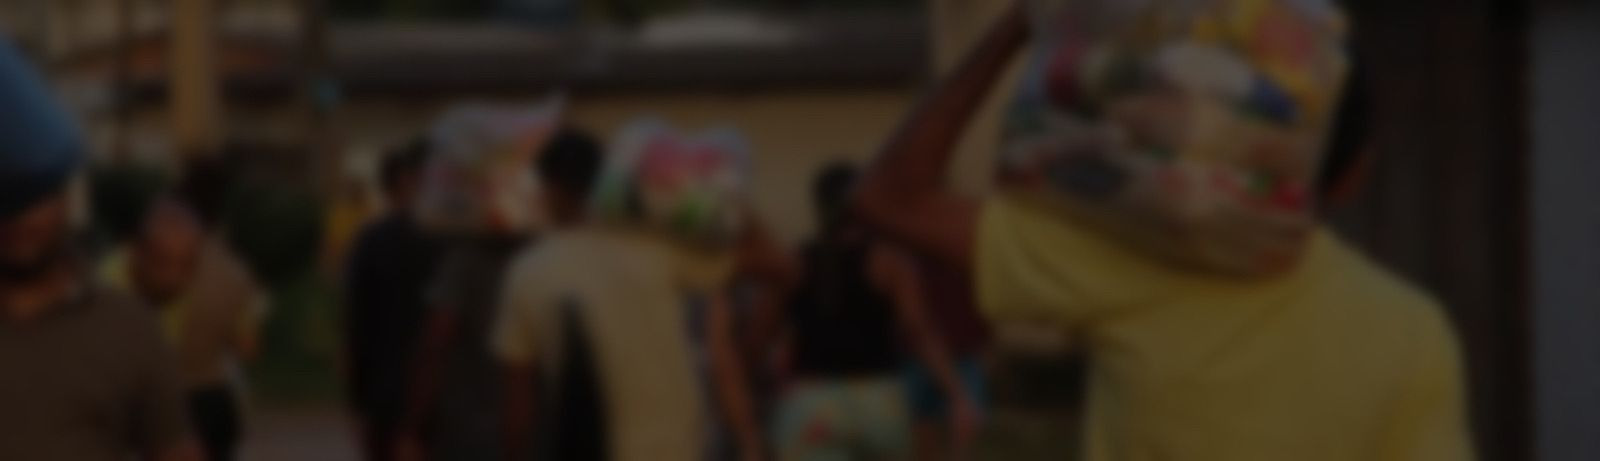
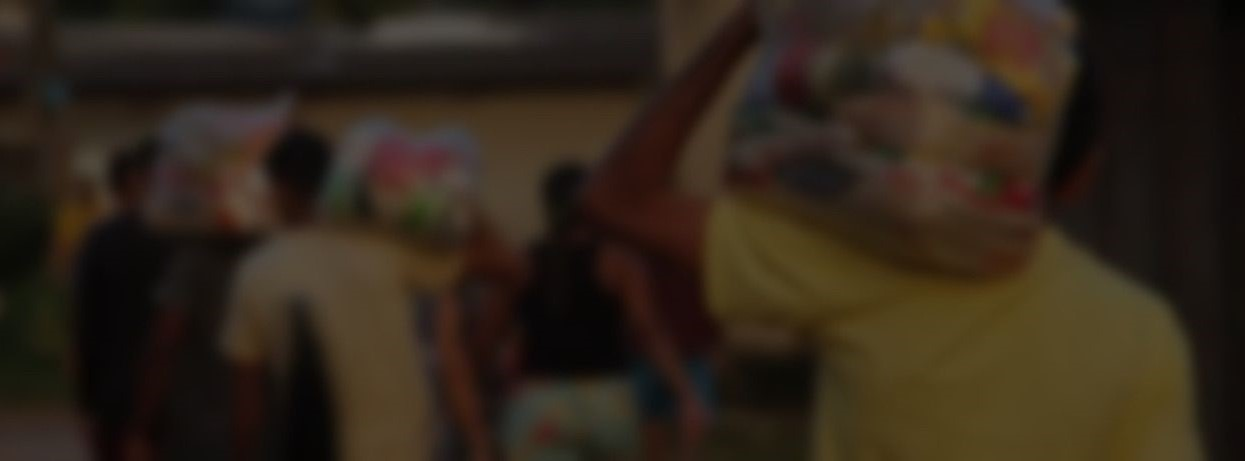
organizando imgs

diff --git a/index.html b/index.html
@@ -42,19 +42,24 @@
             </section>
 
             <section class="secao-2" id="sobre-nos">
-                <div class="container-padding">
+                <div class="container-padding container-text-2">
                     <h1>Sobre Nós</h1>
                     <div>
-                        <p>Lorem ipsum dolor sit, amet consectetur adipisicing elit. Dignissimos quo eveniet minus!
-                            Quisquam ullam, fuga amet nulla sed deleniti illum voluptates aperiam ut vitae. Placeat non
-                            officiis excepturi esse iusto! Lorem ipsum dolor sit amet consectetur adipisicing elit. Rem
-                            assumenda deleniti sed nisi eligendi voluptate. Deserunt, iusto optio ab quidem, suscipit
-                            cumque est molestiae mollitia inventore, quibusdam eos iste? Nesciunt!</p>
-                        <p>Lorem ipsum dolor sit, amet consectetur adipisicing elit. Dignissimos quo eveniet minus!
-                            Quisquam ullam, fuga amet nulla sed deleniti illum voluptates aperiam ut vitae. Placeat non
-                            officiis excepturi esse iusto! Lorem ipsum dolor sit amet consectetur adipisicing elit. Rem
-                            assumenda deleniti sed nisi eligendi voluptate. Deserunt, iusto optio ab quidem, suscipit
-                            cumque est molestiae mollitia inventore, quibusdam eos iste? Nesciunt!</p>
+                        <div>
+                            <p>Lorem ipsum dolor sit, amet consectetur adipisicing elit. Dignissimos quo eveniet minus!
+                                Quisquam ullam, fuga amet nulla sed deleniti illum voluptates aperiam ut vitae. Placeat non
+                                officiis excepturi esse iusto! Lorem ipsum dolor sit amet consectetur adipisicing elit. Rem
+                                assumenda deleniti sed nisi eligendi voluptate. Deserunt, iusto optio ab quidem, suscipit
+                                cumque est molestiae mollitia inventore, quibusdam eos iste? Nesciunt!</p>
+                            <p>Lorem ipsum dolor sit, amet consectetur adipisicing elit. Dignissimos quo eveniet minus!
+                                Quisquam ullam, fuga amet nulla sed deleniti illum voluptates aperiam ut vitae. Placeat non
+                                officiis excepturi esse iusto! Lorem ipsum dolor sit amet consectetur adipisicing elit. Rem
+                                assumenda deleniti sed nisi eligendi voluptate. Deserunt, iusto optio ab quidem, suscipit
+                                cumque est molestiae mollitia inventore, quibusdam eos iste? Nesciunt!</p>
+                        </div>
+                        <div>
+                            
+                        </div>
                     </div>
                 </div>
             </section>

diff --git a/css/style.css b/css/style.css
@@ -193,7 +193,7 @@ nav ul li a{
 
 /* Primeira seção */
 .secao-1{
-    background-image: url('../imgs/bg-seção-1-mobile.jpeg');
+    background-image: url('../imgs/bg-seção-1.jpeg');
     background-size:cover;
 
 }
@@ -241,8 +241,14 @@ nav ul li a{
 
 /* Segunda seção */
 
+.secao-2{
+    background-color: #DA3939;
+}
 
-
+.container-text-2{
+    padding-top: 5%;
+    padding-bottom: 5%;
+}
 
 /* Terceira seção */
 
